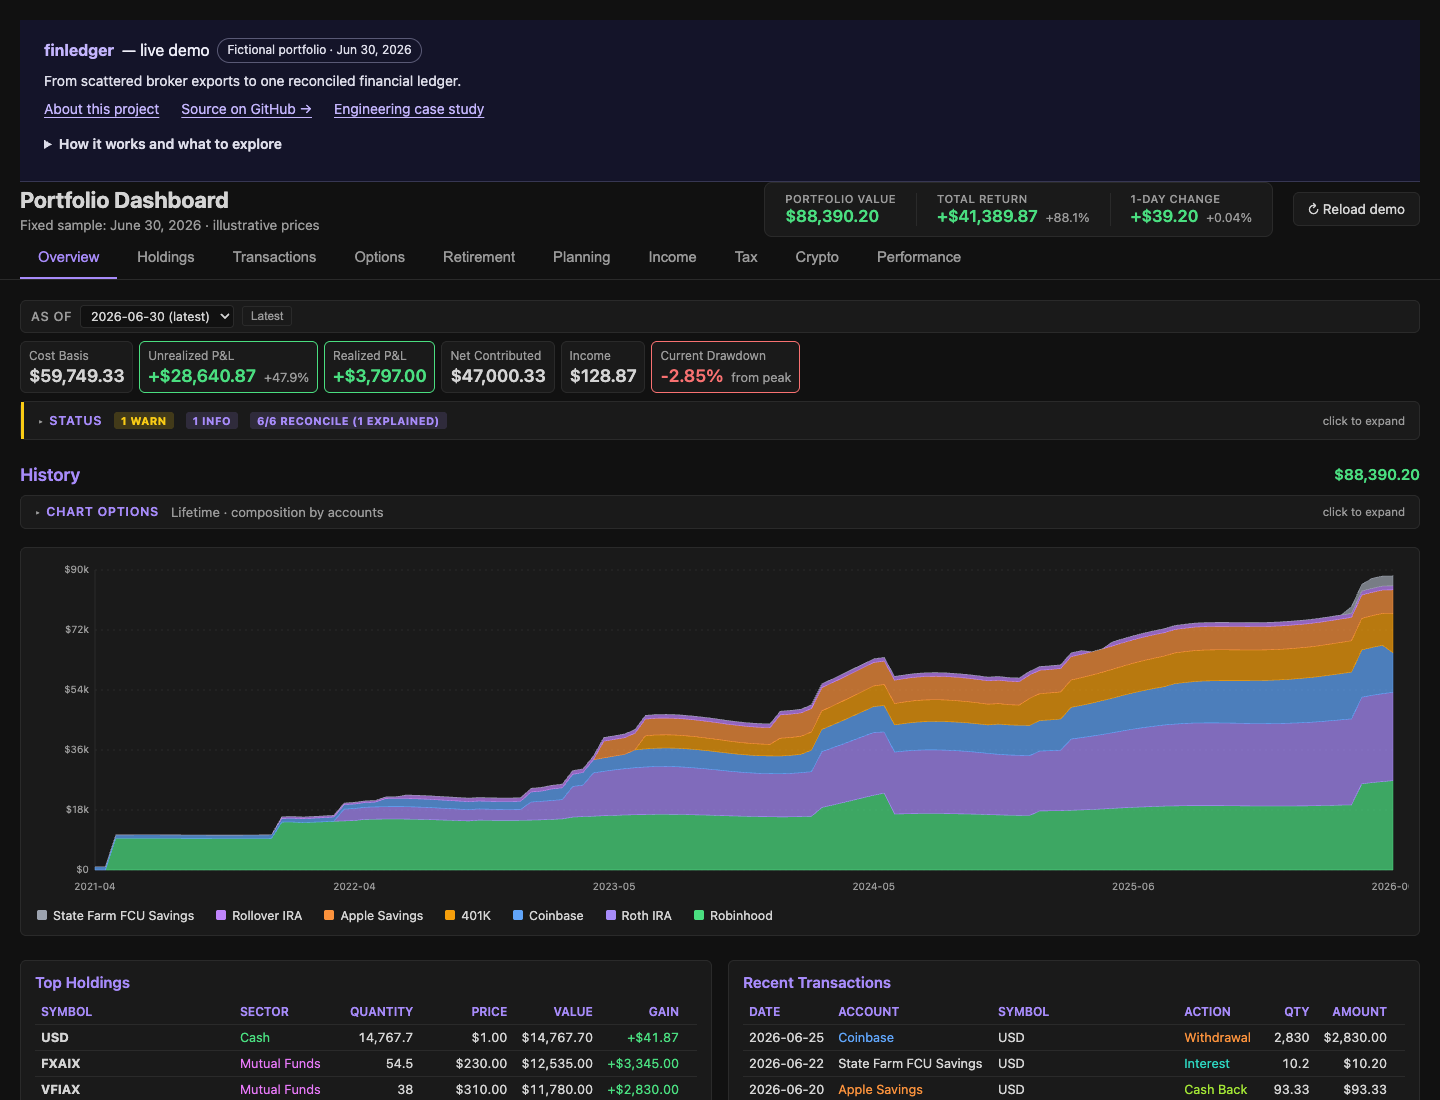
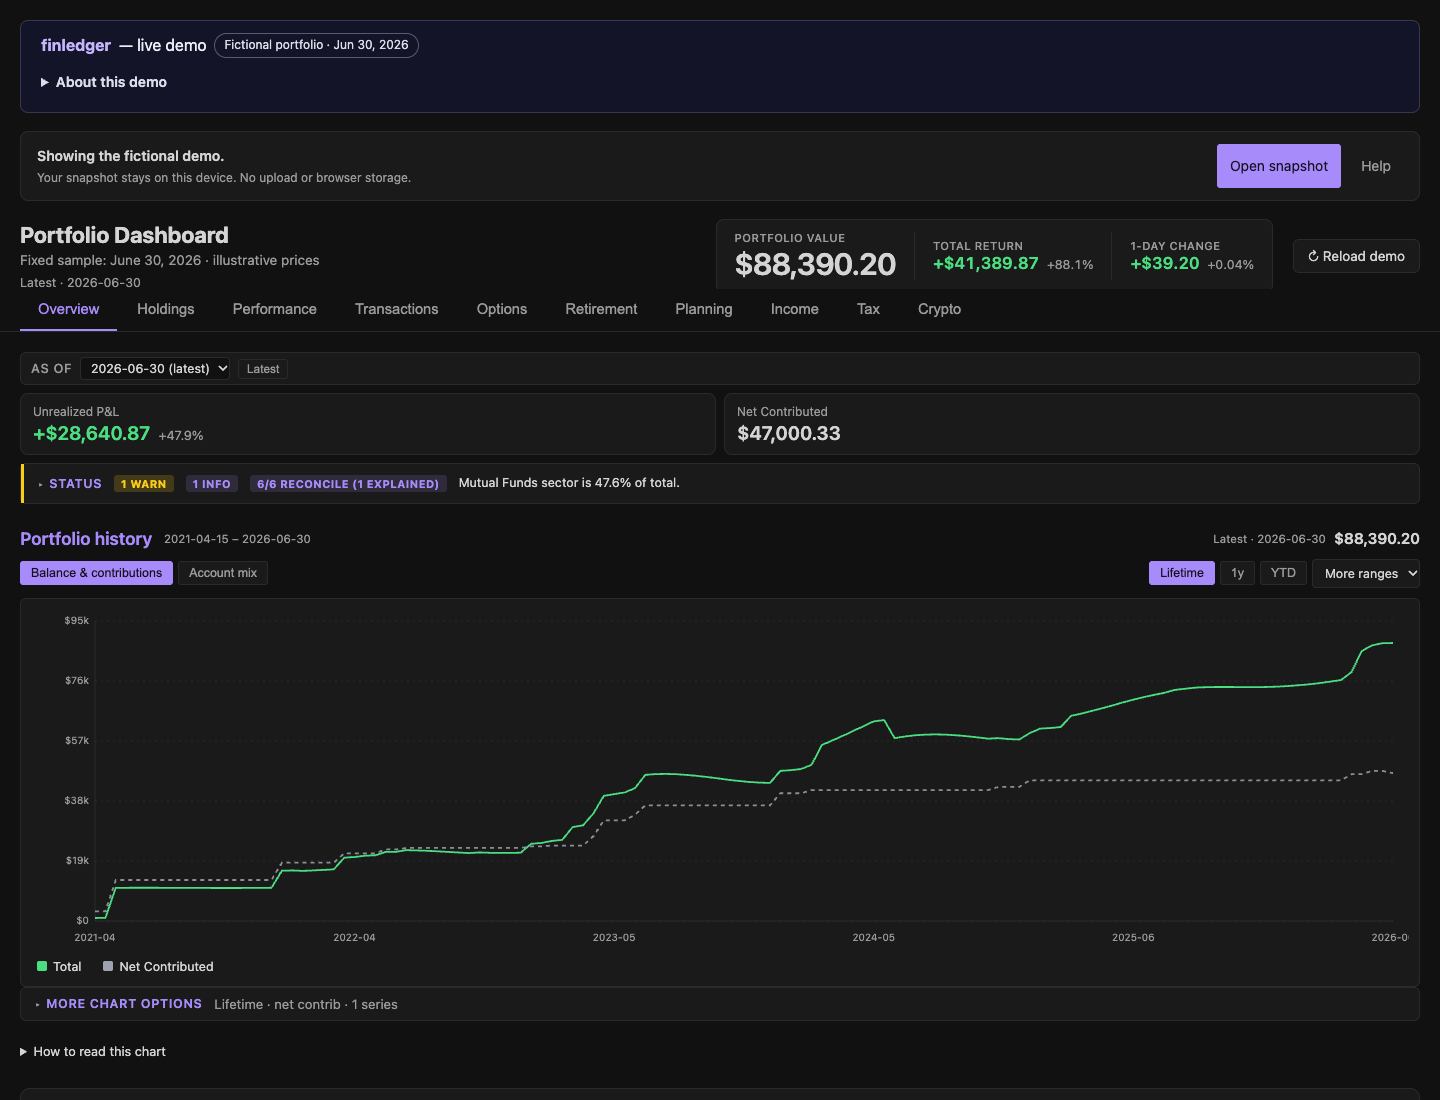
Update finledger screenshot and description
New demo screenshot, the current test count, and a mention of opening your own snapshot in the demo.

diff --git a/src/pages/Finledger.tsx b/src/pages/Finledger.tsx
@@ -37,7 +37,7 @@ const Finledger = () => (
         <a href={assetUrl('/images/projects/finledger.png')} aria-label="Open full-size finledger demo screenshot">
           <img
             src={assetUrl('/images/projects/finledger.png')}
-            alt="finledger overview with holdings, portfolio history, and reconciliation checks. A banner identifies the fictional demo."
+            alt="finledger overview with portfolio value, reconciliation status, and portfolio history. A banner identifies the fictional demo."
             width="1440"
             height="1100"
           />
@@ -110,6 +110,11 @@ const Finledger = () => (
           directories, and a fixed date, with network access disabled. CI checks the finished
           artifact before publishing that same file. This makes the demonstration reproducible
           without sharing a personal dashboard.
+        </p>
+        <p>
+          The public demo can also open a snapshot exported from a local run. The browser
+          reads the file on your device: nothing is uploaded, no prices are fetched, and
+          nothing is saved to browser storage, so a reload returns to the fictional sample.
         </p>
         <p>
           Results still depend on complete exports and correct account classifications.

diff --git a/src/data/projects.ts b/src/data/projects.ts
@@ -36,8 +36,9 @@ const data: Project[] = [
       'Turn broker CSV exports into a portfolio dashboard you can open locally. '
       + 'It combines transactions across nine broker formats, removes duplicates, '
       + 'and tracks cost basis and tax lots, with reconciliation against broker '
-      + 'tax statements. Over a thousand tests check the calculations and imports. '
-      + 'The demo uses fictional data.',
+      + 'tax statements. About 1,500 tests check the calculations and imports. '
+      + 'The demo uses fictional data. You can also open your own exported snapshot '
+      + 'in the demo, and it never leaves your browser.',
   },
   {
     title: 'This website',
